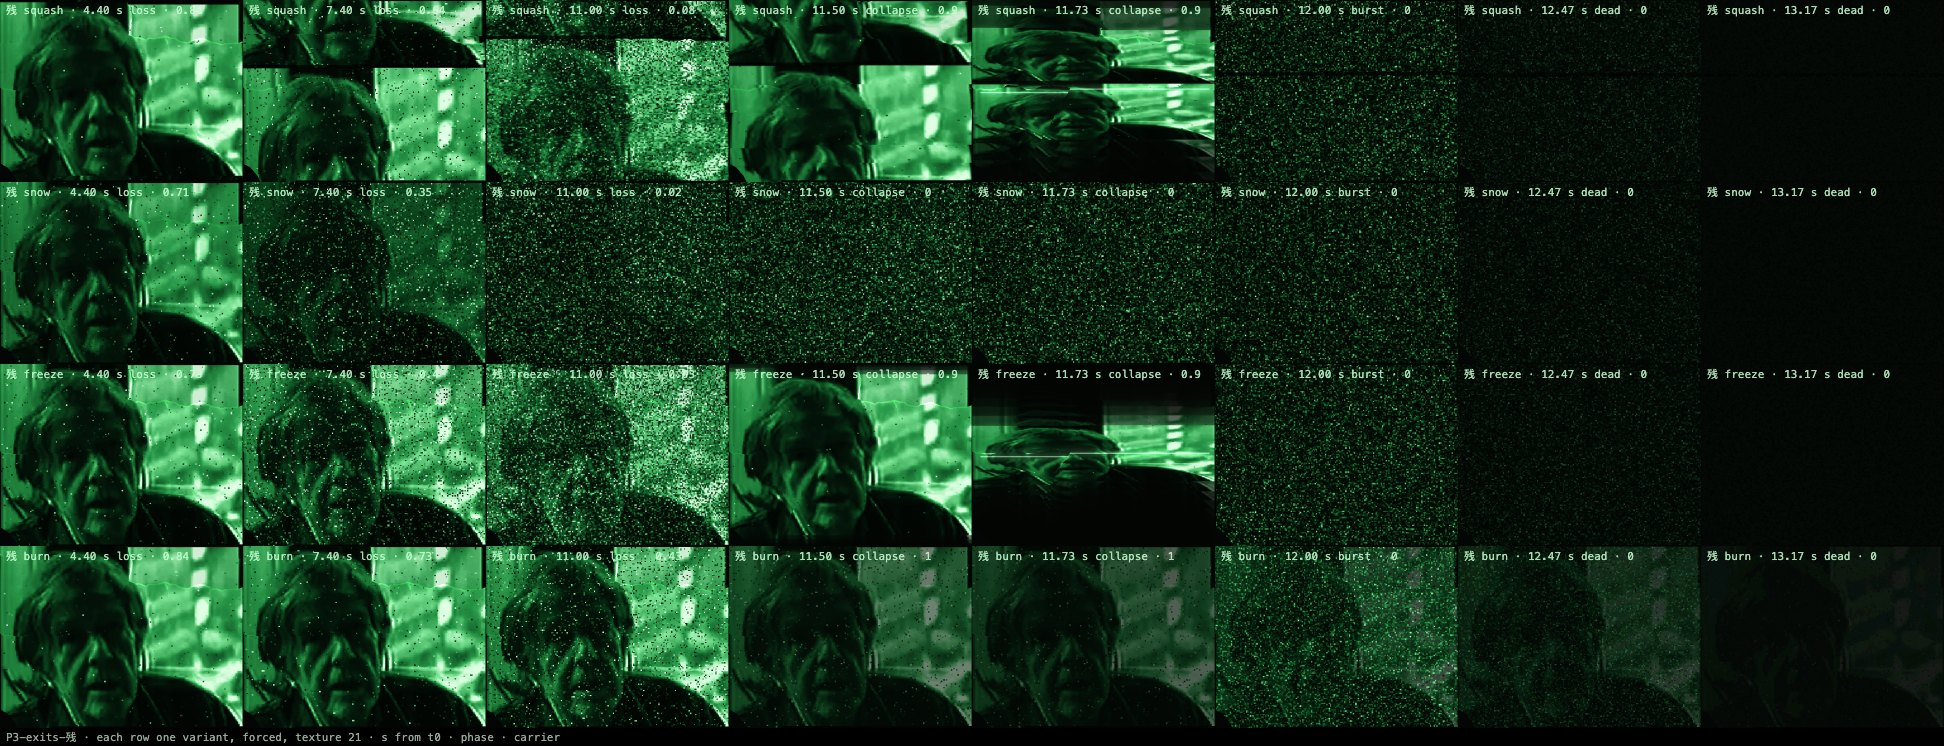
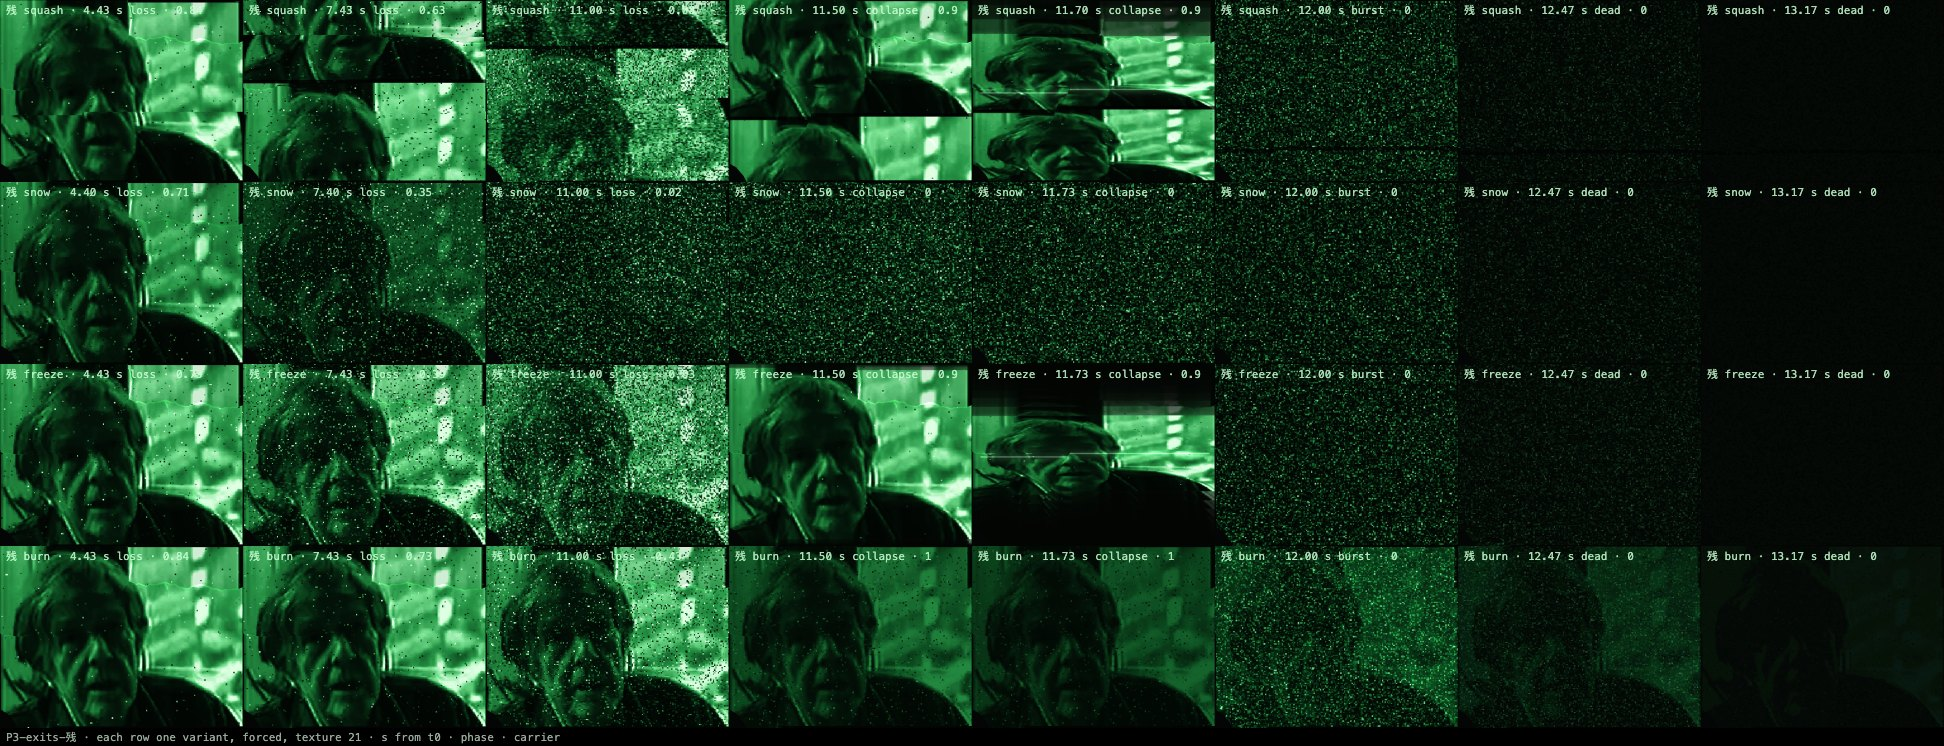
zankyo dev: P3 coder handoff (round 2), the 残 exits strip re-shot and the 浮同 drift-in strip

diff --git a/art/zankyo/handoff/phase-P3-coder-r2.md b/art/zankyo/handoff/phase-P3-coder-r2.md
@@ -1,0 +1,234 @@
+# P3 — coder's handoff, round 2
+
+Branch `zankyo-picture-video`, worktree `/Users/tysonwelsh/Sites/municipal-sky-site-picture2`.
+Served on **:8141** (`php -S 127.0.0.1:8141 router.php`, cwd this worktree, checked with `lsof`).
+I started and stopped no server.
+
+| commit | what | VERSION |
+|---|---|---|
+| `a129d39` | both required items, the colour and walk checks in `p3render`, `--set <rev>`, the 浮同 strip | `2.1.0-rc.P6 — the afterglow a station leaves on the dead tube stays green instead of greying, and a bad-sync drift-in now arrives bent and tearing harder and settles as it locks` |
+| (this file) | the handoff, `P3-exits-残.jpg` re-shot, `P3-entries-浮同.jpg` new | dev-only |
+
+**Files touched:** `zk-set.js` (the afterglow, `geometryPass`'s env, the drift's tear),
+`_picture-probe.js` (`p3render`, `p3sheets`), `VERSION`. `zk-picture.js` is unchanged since
+`90526da`.
+
+**Standing checks:**
+- `git diff 2baf87e` over `zk-broadcast.js`, `zankyo-audio.js`, `zankyo.css` and
+  `prosperos-jukebox-v2/` is empty. `index.php` differs only by P0's script tag and `$zk_assets`.
+- Music identity was not checked, by the owner's ruling (2026-09-24).
+- §11.3: no text was added. No `fillText`, VFD or log line.
+
+**Load:** 5–9 through the gates, 13–15 through perf (`uptime`).
+
+---
+
+## Item 1: the 残 afterglow was grey. It is now on the P39 ramp.
+
+**The fix (`zk-set.js`, `drawAfterglow` and the capture in `composite`).**
+- While the picture lingers, the capture keeps the phosphor's **green** channel. It reads
+  `pdata`, the ImageData that `tubePass` just wrote, so there is no GPU readback.
+- Each afterglow frame computes `g' = green × aftA`. It looks up the least luma the LUT lights at
+  that green (`G2L`, the ramp's inverse), then writes `LUT(l) − LUT(0)` into `aftCv`.
+- `aftCv` is added with `lighter` at the dead tube's persistence rate, as in r1.
+- The steady state is the ramp's own colour at the decayed green.
+- A dimmer phosphor sits lower on the same curve. It is not a scaled copy of the ramp's
+  near-white top.
+
+### (a) Decided: the green is scaled, not the luma
+
+The critic asked for luma × aftA through the LUT. **I built that first and measured it.** It was
+on the ramp (DESAT 0–5.2 %), but the afterglow disappeared.
+- The ramp is steep: gamma 1.3, over stops that stay dark until 0.45. So luma × 0.125 lands at
+  about ¼ of r1's green.
+- Dead-tube meanG on john-cage at 12.20 / 12.50 / 12.80 s read **26.7 / 13.9 / 9.6**. The
+  squash reads 27.4 / 13.5 / 9.0 at the same instants, so the result was indistinguishable from
+  no afterglow.
+
+Scaling the green instead keeps r1's light frame by frame and removes r1's grey. The floor
+LUT(0) = (2, 6, 3) is subtracted from what is added. Added every frame on a dead tube, the floor
+would lift the whole black glass to the floor's colour. The lookup is offset by the floor, so the
+green that gets added is exactly green × aftA.
+
+**Measured with the critic's tool** (`tools/picture-p3-critic.js --jobs
+tools/picture-p3-critic-afterglow.jobs.json`). DESAT is the share of G 30–215 pixels that fall
+more than 0.2 below the ramp's saturation. The squash rows are unchanged from the critic's table.
+
+| reel | exit | collapse 11.50 / 11.73 | burst 12.00 | dead 12.20 / 12.50 / 12.80 | dead meanG (squash) |
+|---|---|---|---|---|---|
+| john-cage | burn **r1** | 9.8 / 15.6 % | 6.4 % | 10.0 / 29.1 / 57.3 % | — |
+| john-cage | burn **r2** | **0.0 / 0.0 %** | **0.1 %** | **0.1 / 0.5 / 0.1 %** | 40.9 / 26.3 / 18.3 (27.4 / 13.5 / 9.0) |
+| bbc1 | burn r1 | 7.0 / 10.5 % | 3.0 % | 4.8 / 14.9 / 60.8 % | — |
+| bbc1 | burn **r2** | **0.0 / 0.0 %** | **0.2 %** | **0.2 / 1.2 / 0.1 %** | 33.0 / 20.4 / 13.5 (23.1 / 12.7 / 8.5) |
+| ddr1 | burn r1 | 15.6 / 18.0 % | 13.3 % | 15.6 / 35.5 / 85.9 % | — |
+| ddr1 | burn **r2** | **0.0 / 0.0 %** | **0.1 %** | **0.1 / 0.5 / 0.0 %** | 43.4 / 26.7 / 18.4 (25.3 / 12.7 / 8.5) |
+
+- R/G of the lit pixels over the afterglow is 0.17–0.25. The squash's dead tube reads 0.26–0.40,
+  which is the Paik line's persistence.
+- **By eye:** in the bottom row of `picture-sheets/P3-exits-残.jpg` (re-shot), the face stays on
+  the dead tube at 12.47 s and 13.17 s, and it is green.
+- My frame at ddr1 12.50 s is the critic's frame again. The same paper, face and caption now read
+  green under the snow, not grey-white.
+
+### (b) The gate now sees colour
+
+`p3render` has a **§11.1 colour check** on the full-resolution tube canvas after compositing,
+using the critic's DESAT.
+- It samples every 3rd frame (0.1 s) over each variant's window. For 切, the window runs from
+  the loss to the dead tube's end. For 焼, it is the hold.
+- Each sample is compared with its default **at the same instant**, taking the worse of the
+  default's two textures.
+- Gate: the excess may be over 5 points on **at most 2 samples (0.2 s)**. A moment of the ramp's
+  own mint top blown out through a dimmer shard reads as DESAT too; the critic saw 0.1 s of it on
+  過's bloom. A held grey keeps going, so it fails.
+- **Why per instant rather than worst against worst:** r1's burn on john-cage peaks at 57.3 %,
+  and the squash's dead tube peaks at 54.6 % (the Paik line). A worst-against-worst gate would
+  pass r1.
+
+| run | result |
+|---|---|
+| this tree | **21/21** variants on the ramp. 残 burn: 0/27 instants over, largest excess 0.3 pts, worst DESAT 0.6 %. |
+| `--set 90526da` (r1's `zk-set.js` swapped in) | **✗ 残 burn colour: 15/27 instants over, largest excess 59.8 pts at 12.9 s (dead).** Every other variant passes. |
+| `--kill` | passes, as expected: killing the exit also removes the afterglow. The `--set` run is the proof that this check can fail. |
+
+The closest pass is **即 bloom at 2/22 instants, exactly the limit** (largest excess 6.8 pts, at
+0.0 s, tuning). That is the ramp's own mint top at the AGC's overshoot, the critic's observation
+3. The bench runs are seeded, so it reproduces exactly. The next closest are 即 ghost at 1/22
+(5.2 pts), 切 vline at 1/43 (7.7 pts, the vertical line's halo mid-collapse) and 切 freeze at
+1/43 (5.2 pts).
+
+---
+
+## Item 2: 浮's walk-down skipped the offset map. It now reaches it.
+
+### (a) The fix
+
+- **The map takes `S.env` while drifting.** `geometryPass` now passes
+  `ph === "hold" || ph === "drifting" ? S.env : ENV1` to `ZP.geoMap`. In every other carrier
+  phase `S.env` is ENV1. With walk 1, `S.env` stays ENV1, so only a walked drift changes.
+- **The drift's tear. Decided:** rc.91's search term, `TP.rate·0.4·(1 − dk)`, stays. On top of
+  it goes **the character's own 裂 × (walk − 1)**. That is (walk − 1)× its own rate at the drift's
+  start and 0 at the lock.
+  - I considered own × walk outright. It would hand the hold its own rate continuously at the
+    lock.
+  - I rejected it because it adds own × 1 to **every** drift, including 今's and every walk-1
+    drift. Those are rc.91's drift exactly, and the walk-off control is what proves the walk.
+  - The step to the hold's rate at the lock is rc.91's, and it stays.
+
+**Measured with the critic's tool** (`tools/picture-p3-walkgeo.js`): mean map variance in px²,
+per 2 s of the 8 s drift.
+
+| | 0–2 s | 2–4 s | 4–6 s | 6–8 s |
+|---|---|---|---|---|
+| 同 walk 3, **r1** | 5.54 | 5.60 | 6.55 | 5.87 |
+| 同 walk 3, **r2** | **48.50** | **42.32** | **32.63** | **11.95** |
+| 同 walk 1, r1 and r2 | 6.09 | 6.44 | 5.71 | 5.75 |
+
+- Walk 1 reads the same to the digit in both rounds, because nothing changes without a walk.
+- Walk 3's opening, 48.5 against 6.09, is about ×8 ≈ 2.9². That is the walked amplitude,
+  `S.env.flag` = 2.90, squared.
+
+### (b) The gate now checks the walk: `浮同` in `p3render`
+
+The fixture is a 同 drift-in (sev 0.9, entry fade, FU8) on the test card, at walk 3 and at
+walk 1. It is **the critic's reception, seed 5 and texture 5** (旗 0.87 · 捩 0.77 · 裂 0.40).
+- **Walk 3:** the map variance over 0–2 s must be ≥ 2× that over 6–8 s, and ≥ 2× walk 1's over
+  0–2 s.
+- **Walk 1:** it must stay flat, within ×1.5.
+
+**Why that seed.** On `p3render`'s usual seed, 77.37, the 同 draw includes 横. Its bars come in
+**episodes keyed on reception time**, so walk 1 opened at 2,603 px² and fell to 25.8 by 6–8 s.
+The check failed "flat" for a reason that has nothing to do with the walk. The pin follows
+§6.3.2, which pins every kind's axes.
+
+The new items go **last** in the item list. The items share one virtual clock. When I first put
+them mid-list, every later item ran at different instants: the 切 squash reference read columns
+0.88 = 1.6 × rows 0.55 and failed its own shape check.
+
+| run | result |
+|---|---|
+| this tree | ✓ walk 3: **46.74 → 11.70 px² (×4.00)**, opening ×7.34 over walk 1's. ✓ walk 1: **6.37 → 5.60** |
+| `--kill` (`walkAt → 1`) | **✗ 浮同 walk: 5.45 over 0–2 s, ×0.84 against walk 1's.** It fails by name. |
+| `--set 90526da` | **✗ 浮同 walk: 5.32 → 5.71 (×0.93).** It fails by name. |
+
+**By eye** (`picture-sheets/P3-entries-浮同.jpg`, new; card and ddr1, walk 3 above walk 1):
+- The walk mostly shows in the first half, where the picture is still under the snow. It appears
+  as the raster's left edge bent into black wedges at 0.63–3.43 s, which walk 1 does not have.
+- From about 6 s the two rows converge, and they are the same at the lock.
+- The effect is modest to the eye, because the kinds being walked are buried at that point. That
+  matches the critic's reading of 反 in r1.
+
+### (c) `bounds`: GREEN, nothing moved
+
+48 receptions, **436 boundaries, 33,884 frames**, the same counts as r1. Every boundary is on
+rc.P4's frame. Every boundary is also on rc.91's frame, except the 11 断 hold→loss boundaries
+that P1 moved. Every fu·* reception's drift boundaries fall on the same frames on all three builds (the
+printed row, fu·jou·setsu, reads `dr@6 ho@235`), so the drift's window is where it was. All 12 forced receptions ran their modes.
+
+---
+
+## The gates, re-run on `a129d39`
+
+| gate | result |
+|---|---|
+| `bounds` | **GREEN** (above) |
+| `p3draws` | **GREEN.** Every variant appears in each set's 500. Nothing falls outside its pool. The P3 draws come last (20,000 = rc.P4's). Sensitivity: 116 of 200. `zk-picture.js` is untouched. |
+| `p3render` | **GREEN.** The 21 variant checks give the same moves and causes as r1. 浮's lines moved in the second decimal (41.22 → 41.25, 33.54 → 33.56, 52.66 → 52.71), because 遠 at sev 0.6 carries geometry kinds that now walk. 焼 r 0.989 / 0.563 (rolled with the picture: 0.330). Burn legibility 0.8828 / 0.9149. Plus the walk check (2 lines) and colour 21/21. |
+| `p3render --kill` | **RED, 22 ✗ by name:** r1's 21, plus 浮同 walk. |
+| `p3render --set 90526da` | **RED, exactly 2 by name:** 浮同 walk and 残 burn colour. |
+| `legibility` | **GREEN**, identical to r1: median 0.7380 against rc.91's 0.7069; 0/48 buried; 48/48 surface, worst window 0.70 s; 遠/嵐 at sev 1 24/24, worst window 0.90 s. The hold is untouched. |
+| critic's tools | afterglow DESAT 0.0–1.2 % (table above); walkgeo 48.50 → 11.95 at walk 3 (table above) |
+
+**Perf, run twice back to back** (`perfp1`), as the critic asked:
+
+| run | load | dpr 1 mean / p99 (rc.91) | dpr 2 mean / p99 (rc.91) | worst archetype | verdict |
+|---|---|---|---|---|---|
+| 1 | 15 / 9 / 11 | 1.313 / 3.0 (1.053 / 3.3) | 1.707 / 4.8 (1.320 / 4.6) | 1.562 | GREEN |
+| 2 | 13 / 9 / 11 | 1.411 / 3.5 (1.042 / 3.4) | 1.726 / 4.7 (1.258 / 4.8) | 1.629 | GREEN |
+
+- `p3render`'s step cost was a defaults mean of 1.211 ms (p95 2.4, worst 10.4) and a variants
+  mean of 1.158 ms (p95 2.4, worst 6.1).
+- The afterglow now does a 27,648-pixel loop and a `putImageData` on each frame of a burn exit's
+  collapse, burst and dead tube, and nowhere else. `perfp1`'s drawn receptions do not isolate
+  that cost.
+
+**Not re-run:** P2's `render`, `draws`, `lull` and `crack`. Those gates read the hold, 滲 and the
+crack, and nothing there changed: `zk-picture.js` and the hold block are untouched. `phases` also
+reads `phaseOf`, and that is `bounds`' subject.
+
+## The critic's observations (not required)
+
+1. **Tiers:** the neg exit is 1 in 14, and freeze × burn-in is 1.6 %. These are left to P4.
+2. **Walked echoes can outweigh the direct path.** Not capped. The critic let it stand, and a cap
+   would be a new rule on `ghostList` for every phase.
+3. **The bloom lock-in on 過 blows to the mint top for about 0.1 s.** Unchanged. It is on the
+   ramp, and the colour gate allows it: 即 bloom sits exactly at 2/22.
+4. **Perf:** see above.
+5. **Short-echo walk-down is subtle:** unchanged.
+
+## Open items
+
+1. **The 浮同 walk is modest to the eye** (see 2(b)): the walked geometry is under the snow for
+   the drift's first half. It is measurable (×4 over the drift), but a viewer mostly sees the
+   raster's bent edge. If the owner wants it to read, the lever is `walk`'s range
+   (1.8–3, `ZP.ENTRY`), not the mechanism.
+2. **The colour gate's closest pass is 即 bloom, at its limit (2/22).** A longer bloom would trip
+   it. That is intended: a longer mint-white would be the owner's call under §11.1.
+3. **Carried from r1:** P4's tiers and `"set:burn"` against `"set:tube"`. The burn's frame memory
+   records reels only.
+
+## Re-run
+
+```
+cd /Users/tysonwelsh/Sites/municipal-sky-site-picture2/art/zankyo
+node _picture-probe.js bounds --out <dir>                      # GREEN
+node _picture-probe.js p3draws --out <dir>                     # GREEN
+node _picture-probe.js p3render --out <dir>                    # GREEN (colour 21/21, 浮同 walk ✓✓)
+node _picture-probe.js p3render --kill --out <dir>             # RED, 22 by name
+node _picture-probe.js p3render --set 90526da --out <dir>      # RED, 浮同 walk + 残 burn colour
+node _picture-probe.js legibility --out <dir>                  # GREEN
+node _picture-probe.js perfp1 --out <dir>                      # GREEN twice
+node _picture-probe.js p3sheets --only P3-exits-残,P3-entries-浮同 --sheets handoff/picture-sheets --out <dir>
+node tools/picture-p3-critic.js --jobs tools/picture-p3-critic-afterglow.jobs.json --out <dir>
+node tools/picture-p3-walkgeo.js
+```
